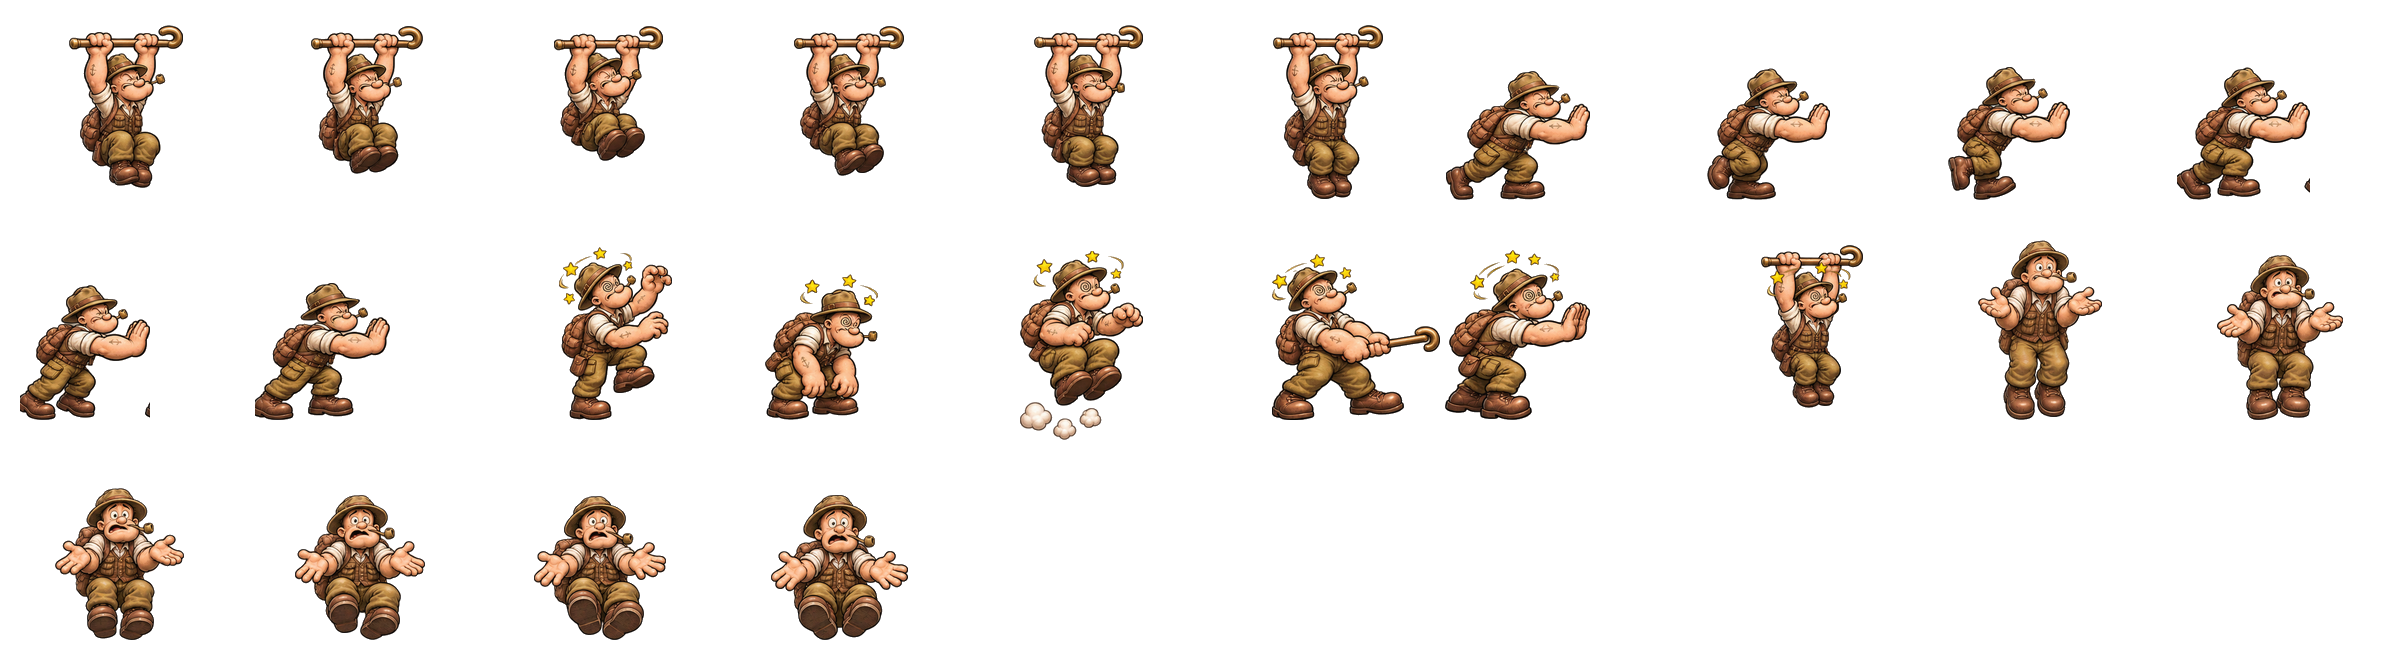
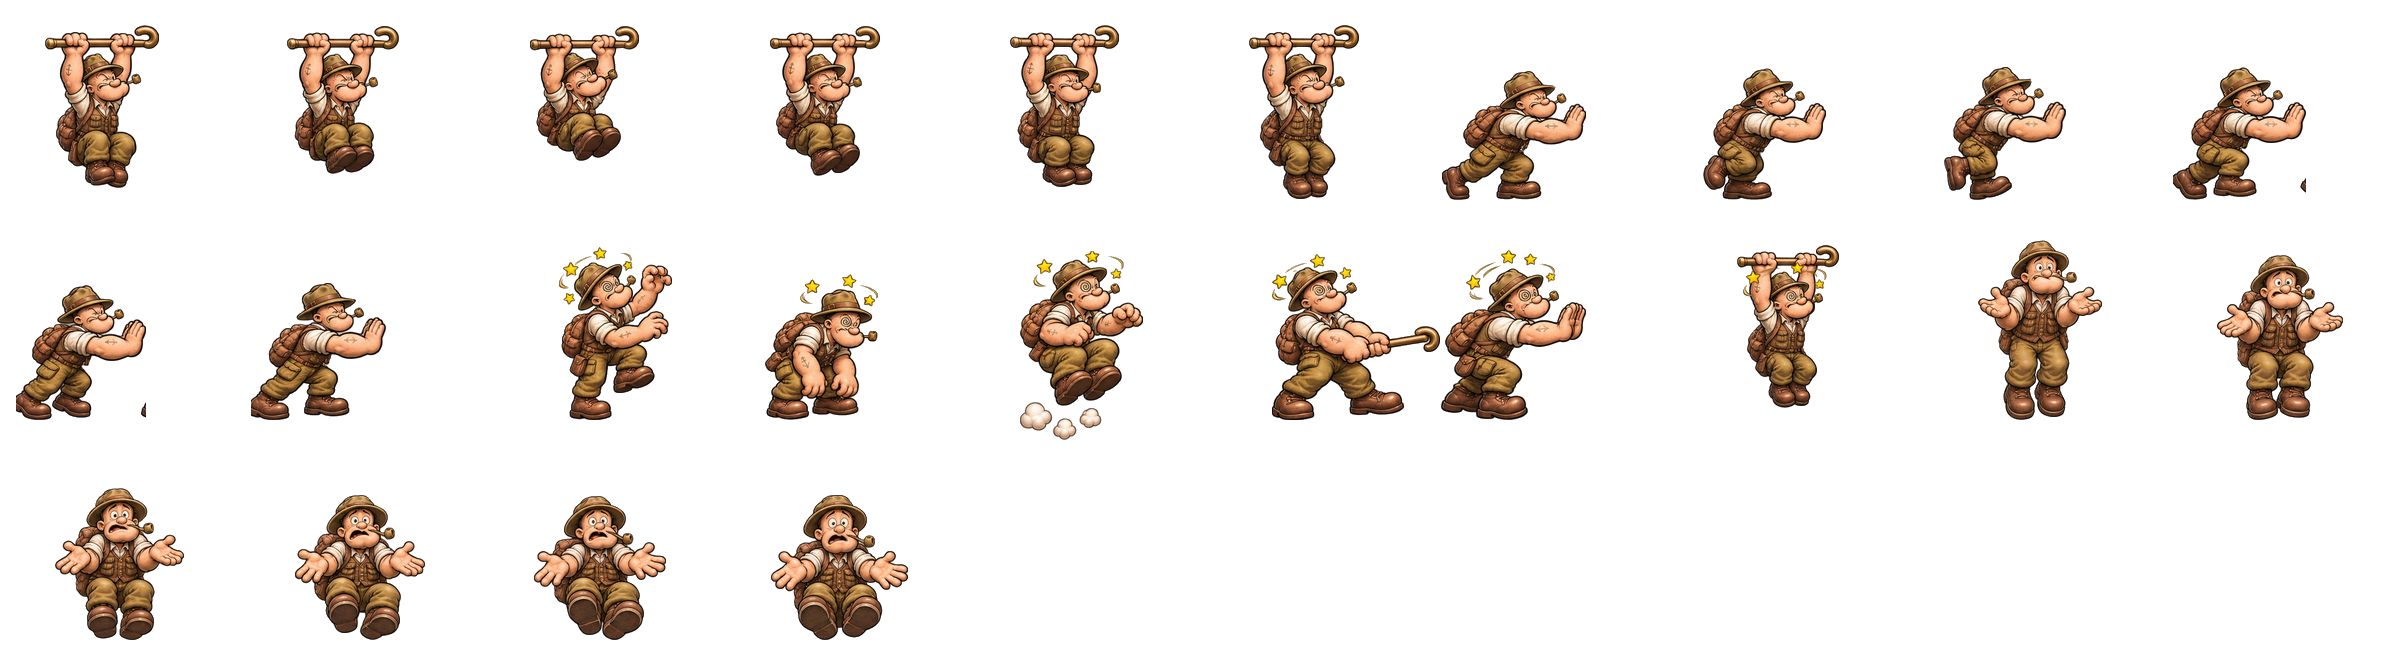
v0.43: karakter %20 büyük, tek taşa yandan asılma, asılma 5 px geri
Claude-Session: https://claude.ai/code/session_015fAnPKUucX6WRC71BPvNkG

diff --git a/config.js b/config.js
@@ -1,6 +1,6 @@
 // Popeye Tales (Atari) - ayarlar
 const CONFIG = {
-  surum: "v0.42",
+  surum: "v0.43",
   tile: 32,
   bayrakBoy: 57.6,      // kontrol noktası bayrağı (v0.33: %10 küçük, 64 → 57.6)
   dusmanOlcek: 0.9,     // v0.32: tüm düşmanlar %10 küçük (görsel + gövde)
@@ -29,10 +29,10 @@ const CONFIG = {
   oyuncu: {
     canMax: 3,
     yasam: 3,
-    boy: 52.8,           // v0.32: %10 büyük (48 → 52.8); animOlcek oranları bunun üstüne çarpılır, gövde aynı             // karakterin ekrandaki boyu (dünya px, ayakta)
+    boy: 63.36,          // v0.43: %20 büyük (52.8 → 63.36; v0.32'de 48 → 52.8); animOlcek oranları bunun üstüne çarpılır, gövde aynı             // karakterin ekrandaki boyu (dünya px, ayakta)
     kare: { w: 176, h: 141, ayakY: 125, ayakBoy: 117 },
     kare2: { w: 240, h: 220, ayakY: 200 },   // assets/oyuncu2.png (asılma, itme, darbe kareleri) — aynı ölçek  // assets/oyuncu.png hücresi: ayak çizgisi, ayakta boy (px)
-    kancaY: 52,          // asılma karesinde bastonun ayaklardan yüksekliği (px); kanca bu hizada taşa değince asılır
+    kancaY: 62,          // asılma karesinde bastonun ayaklardan yüksekliği (px); kanca bu hizada taşa değince asılır
     ayakGomme: 2,        // ayaklar zemin çizgisinin bu kadar altına çizilir (px) — çimene basmış görünür
     govdeG: 18,          // çarpışma gövdesi genişliği (px)
     govdeY: 42,          // çarpışma gövdesi yüksekliği (px) — ayaktayken 1 karelik (32 px) aralığa sığmaz

diff --git a/oyuncu.js b/oyuncu.js
@@ -88,10 +88,10 @@ Object.assign(GameScene.prototype, {
       }
     } else if (!yerde && this.asiliBekle <= 0 && b.velocity.y > 0 && this.knock <= 0 && !this.pogoModu) {
       const y = k.sag && !k.sol ? 1 : (k.sol && !k.sag ? -1 : 0);
-      // Sadece yandan: kanca hizası, gövdenin üstü ve altı aynı yanda taşa değmeli (alttan / kenar köşesinden asılmaz)
-      const kanca = y ? this.kancaDuvar(y) : null;
-      const duvar = kanca && this.duvarVar(y, b.y + b.height / 2 - 2, 4);
-      const yandan = duvar && this.duvarVar(y, b.y + 2, 4) && this.duvarVar(y, b.bottom - 8, 4);
+      // Sadece yandan: kancanın değdiği taş gövdenin yanında olmalı (tek uçan taş da olur).
+      // Taş gövdenin üstündeyse (alttan kafa girerse) asılmaz.
+      const duvar = y ? this.kancaDuvar(y) : null;
+      const yandan = duvar && (y > 0 ? duvar.left >= b.right - 1 : duvar.right <= b.left + 1);
       if (yandan) {
         // Gövdeyi taşa yasla (arada boşluk kalmasın, en fazla 4 px); kanca görselde taşın içine girer
         const dx = Phaser.Math.Clamp(y > 0 ? duvar.left - b.right : duvar.right - b.left, -4, 4);

diff --git a/araclar/oyuncuEk.py b/araclar/oyuncuEk.py
@@ -50,9 +50,9 @@ def baston(arr):   # bastonun (figürün en üst 14 satırı) üstü ve sağ ucu
     return t, np.where(b[t:t + 14].any(0))[0][-1]
 ASILI = [0, 1, 2, 3, 4, 5, 17]
 ITME = [6, 7, 8, 9, 10, 11, 16]
-ON_KENAR = C + 9 / (52.8 / 117 * 0.7) + 2   # gövde yarı genişliği (9 px) hücre pikseline çevrildi
+ON_KENAR = C + 9 / (63.36 / 117 * 0.7) + 2   # gövde yarı genişliği (9 px) hücre pikseline çevrildi
 ASILI_BOY = max(round(kareler[i][0].shape[0] * OLCEK * (kareler[i][2] if len(kareler[i]) > 2 else 1)) for i in ASILI[:6])
-KANCA_X = C + 62   # v0.38: baston ucu gövdenin ~10 px önünde → kanca taşın içine girer
+KANCA_X = C + 38   # v0.43: baston ucu gövdenin ~5.5 px önünde (v0.38'deki ~10.6 px'ten 5 px geri) → kanca taşın içine girer
 for n, k in enumerate(kareler):
     arr, alt = k[0], k[1]
     o = OLCEK * (k[2] if len(k) > 2 else 1)

diff --git a/OYUN.md b/OYUN.md
@@ -1,6 +1,6 @@
 # Popeye Tales (Atari) — OYUN.md
 
-Sürüm: v0.42 (`config.js` → `surum`)
+Sürüm: v0.43 (`config.js` → `surum`)
 Motor: Phaser 3.80.1 (CDN), Arcade Physics.
 Görseller (v0.05, yeni set): zemin ve arka plan tek bir karo setinde (`assets/tileset.png`, 64 px kaynak, oyunda 32 px); objeler `assets/*.png` (platform parçaları, sarmaşık/ip/merdiven/zincir, kasa, taş blok, kırmızı takoz, dikenler, sandık, kapı, bayrak). Ana karakter (v0.14): `assets/oyuncu.png` sprite sheet (aşağıda). Düşmanlar (v0.24) ve toplanabilirler (v0.29): kullanıcı görseli. Arayüz hâlâ yer tutucu (renkli şekiller, `boot.js`).
 
@@ -29,7 +29,7 @@ Not: görseller dosyadan yüklendiği için oyun `file://` ile değil bir web ad
 
 ## Ana karakter sprite'ı (v0.14)
 `assets/oyuncu.png`: 53 kare, 10 sütun, hücre 176×141 px (`CONFIG.oyuncu.kare`). Kaynak görsel düzensiz ızgaralıydı; kareler tek tek tespit edilip kesildi, kirli hale temizlendi. Her karede ayak çizgisi y=125, kafa hücrenin yatay ortasında (sola dönünce kayma olmaz).
-**v0.19: bütün kareler tek ve sabit ölçekte (%100)** — satır bazlı büyütme/küçültme yok (v0.15'teki zıplama %10 / tırmanma %30 büyütmesi iptal). Asıl sorun eski bekleme ve koşma karelerinin büyük çizilmesiydi: 0–9 kullanıcının gönderdiği yeni bekleme (4) ve koşma (6) görselleriyle değiştirildi (kenardaki kırmızı hale temizlendi). 49–52 ayrı gönderilen pogo görselinden. Oyunda bekleme karesinde ayakta boy 52.8 px (`CONFIG.oyuncu.boy`, v0.32'de 48'den %10 büyütüldü; animasyon ölçek oranları korunur). Çarpışma gövdesi (v0.26) ayakta 18×42 px → 1 karelik (32 px) aralıklara sığmaz; eğikken 18×26 px (`govdeEgik`) → eğilerek geçilir. Üstü kapalı yerde ↓ bırakılsa da eğik kalır ve zıplanamaz; açık yere çıkınca kalkar.
+**v0.19: bütün kareler tek ve sabit ölçekte (%100)** — satır bazlı büyütme/küçültme yok (v0.15'teki zıplama %10 / tırmanma %30 büyütmesi iptal). Asıl sorun eski bekleme ve koşma karelerinin büyük çizilmesiydi: 0–9 kullanıcının gönderdiği yeni bekleme (4) ve koşma (6) görselleriyle değiştirildi (kenardaki kırmızı hale temizlendi). 49–52 ayrı gönderilen pogo görselinden. Oyunda bekleme karesinde ayakta boy 63.36 px (`CONFIG.oyuncu.boy`; v0.32'de 48 → 52.8, v0.43'te %20 daha büyütüldü; animasyon ölçek oranları korunur, çarpışma gövdesi aynı). Çarpışma gövdesi (v0.26) ayakta 18×42 px → 1 karelik (32 px) aralıklara sığmaz; eğikken 18×26 px (`govdeEgik`) → eğilerek geçilir. Üstü kapalı yerde ↓ bırakılsa da eğik kalır ve zıplanamaz; açık yere çıkınca kalkar.
 | Animasyon | Kareler | Ne zaman |
 |---|---|---|
 | dur | 0–3 | yerde dururken |
@@ -47,7 +47,7 @@ Not: görseller dosyadan yüklendiği için oyun `file://` ile değil bir web ad
 
 ## Yeni hareketler (v0.33)
 - Ek kareler `assets/oyuncu2.png` (`python3 araclar/oyuncuEk.py`; kaynak `assets/kaynak/oyuncu_ek.png` + `oyuncu_asiliHasar.png`): 10 sütun, hücre 240×220 (v0.40'ta 176'dan genişletildi), ayak çizgisi y=200, gövde ortası x=120, ana sayfayla aynı ölçek (şapka genişliği eşitlendi). `CONFIG.oyuncu.kare2`. v0.34: oyunda hepsi %30 küçük çizilir (`animOlcek` 0.7).
-- **Bastonla duvara asılma** (`asili`, kare 0–5; v0.36: kareler bastona göre hizalı → baston takıldığı yerde sabit, sadece gövde sallanır; v0.38: takılınca gövde taşa yaslanır ve baston ucu ~10 px taşın içine girer; v0.39: sadece yandan — kanca hizası ile gövdenin üstü ve altı aynı yanda taşa değmeli, alttan/kenar köşesinden ya da tepeye zıplarken asılmaz; v0.41: kafa tavana çarpınca geri düşer ve 0.35 sn asılamaz — ileri basılı olsa bile; yaslanma en fazla 4 px, ışınlanma hatası giderildi): havada aşağı düşerken duvara doğru basılıysa ve **baston kancası** (ayakların `CONFIG.oyuncu.kancaY` 52 px üstü, v0.35) önündeki taşa değiyorsa takılır; sadece kafa/bacak değiyorsa düşmeye devam eder ve kancanın taşa ilk değdiği yerde durur (yerçekimi kapalı). Zıpla → duvardan uzağa sıçrar (`CONFIG.fizik.asiliZipla` 160, tam zıplama, 0.15 sn yatay kilit); ters yön, ↓ veya duvar biterse bırakır (0.25 sn tekrar takılmaz).
+- **Bastonla duvara asılma** (`asili`, kare 0–5; v0.36: kareler bastona göre hizalı → baston takıldığı yerde sabit, sadece gövde sallanır; v0.38: takılınca gövde taşa yaslanır ve baston ucu ~10 px taşın içine girer; v0.39: sadece yandan — kanca hizası ile gövdenin üstü ve altı aynı yanda taşa değmeli, alttan/kenar köşesinden ya da tepeye zıplarken asılmaz; v0.43: sadece kancanın değdiği taş gövdenin yanında olmalı — tek uçan taşa yandan da asılır, taş gövdenin üstündeyse (alttan kafa girince) asılmaz; asılı duruş 5 px geri alındı, `kancaY` 62; v0.41: kafa tavana çarpınca geri düşer ve 0.35 sn asılamaz — ileri basılı olsa bile; yaslanma en fazla 4 px, ışınlanma hatası giderildi): havada aşağı düşerken duvara doğru basılıysa ve **baston kancası** (ayakların `CONFIG.oyuncu.kancaY` 52 px üstü, v0.35) önündeki taşa değiyorsa takılır; sadece kafa/bacak değiyorsa düşmeye devam eder ve kancanın taşa ilk değdiği yerde durur (yerçekimi kapalı). Zıpla → duvardan uzağa sıçrar (`CONFIG.fizik.asiliZipla` 160, tam zıplama, 0.15 sn yatay kilit); ters yön, ↓ veya duvar biterse bırakır (0.25 sn tekrar takılmaz).
 - **İtme** (`it`, kare 6–11; v0.40: el ucu gövdenin ön kenarına hizalı → eller nesneye değer, içine girmez; karelerdeki küçük siyah lekeler temizlendi): yerde, önünde aynı zeminde bitişik sandık varsa yürüyerek yavaşça iter (`CONFIG.fizik.itme` 90 px/sn). Çekilebilen her şey itilebilir.
 - **Ölüm** (v0.37, `olum`, kare 18–23, kaynak `assets/kaynak/oyuncu_olum.png`): ölünce eski yukarı sıçrayıp aşağı düşme aynı, sırasında bu animasyon bir kez oynar ve son karesi sabit kalarak düşmeye devam eder (gri renk kaldırıldı).
 - **Duruma göre darbe karesi**: tırmanırken 12, eğikken 13, havada 14, çekerken 15, iterken 16, asılıyken 17. Yerde ayaktayken eski `sersem` (15–17 ana sayfa).
